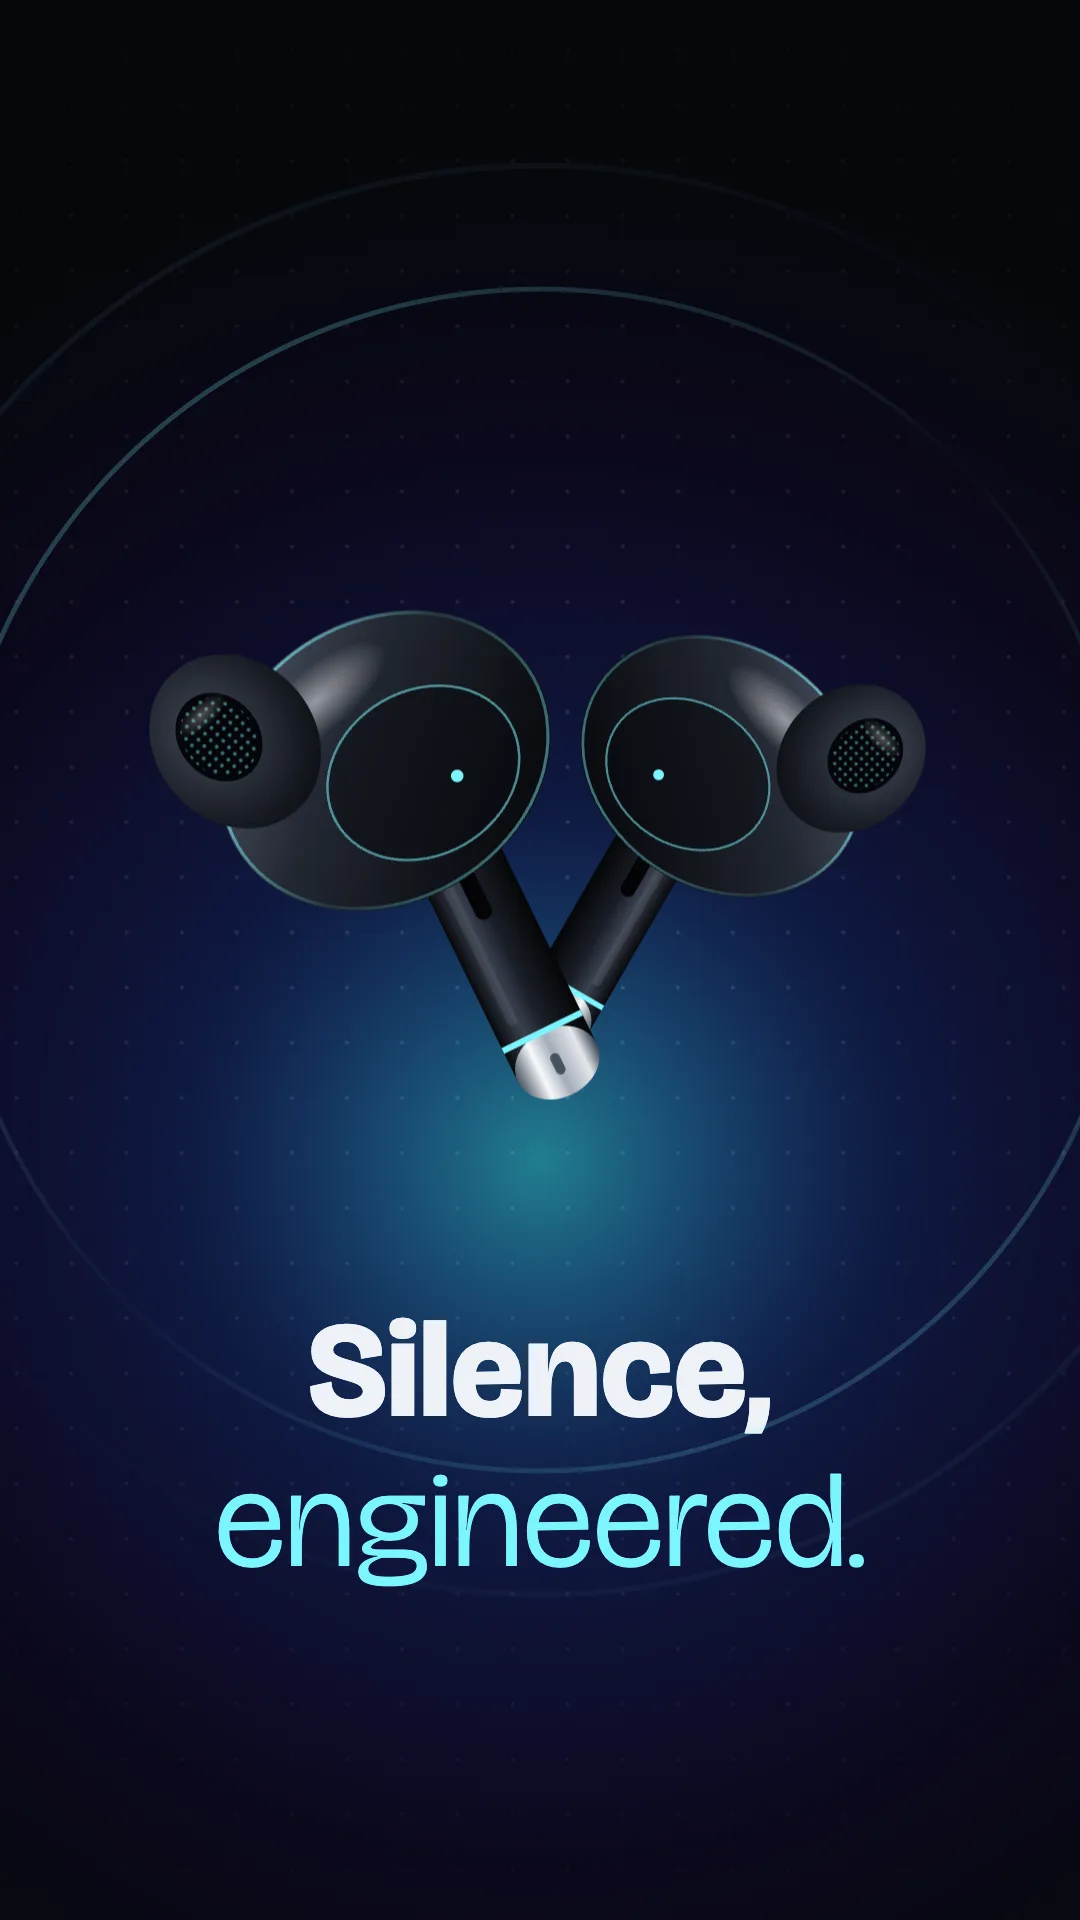
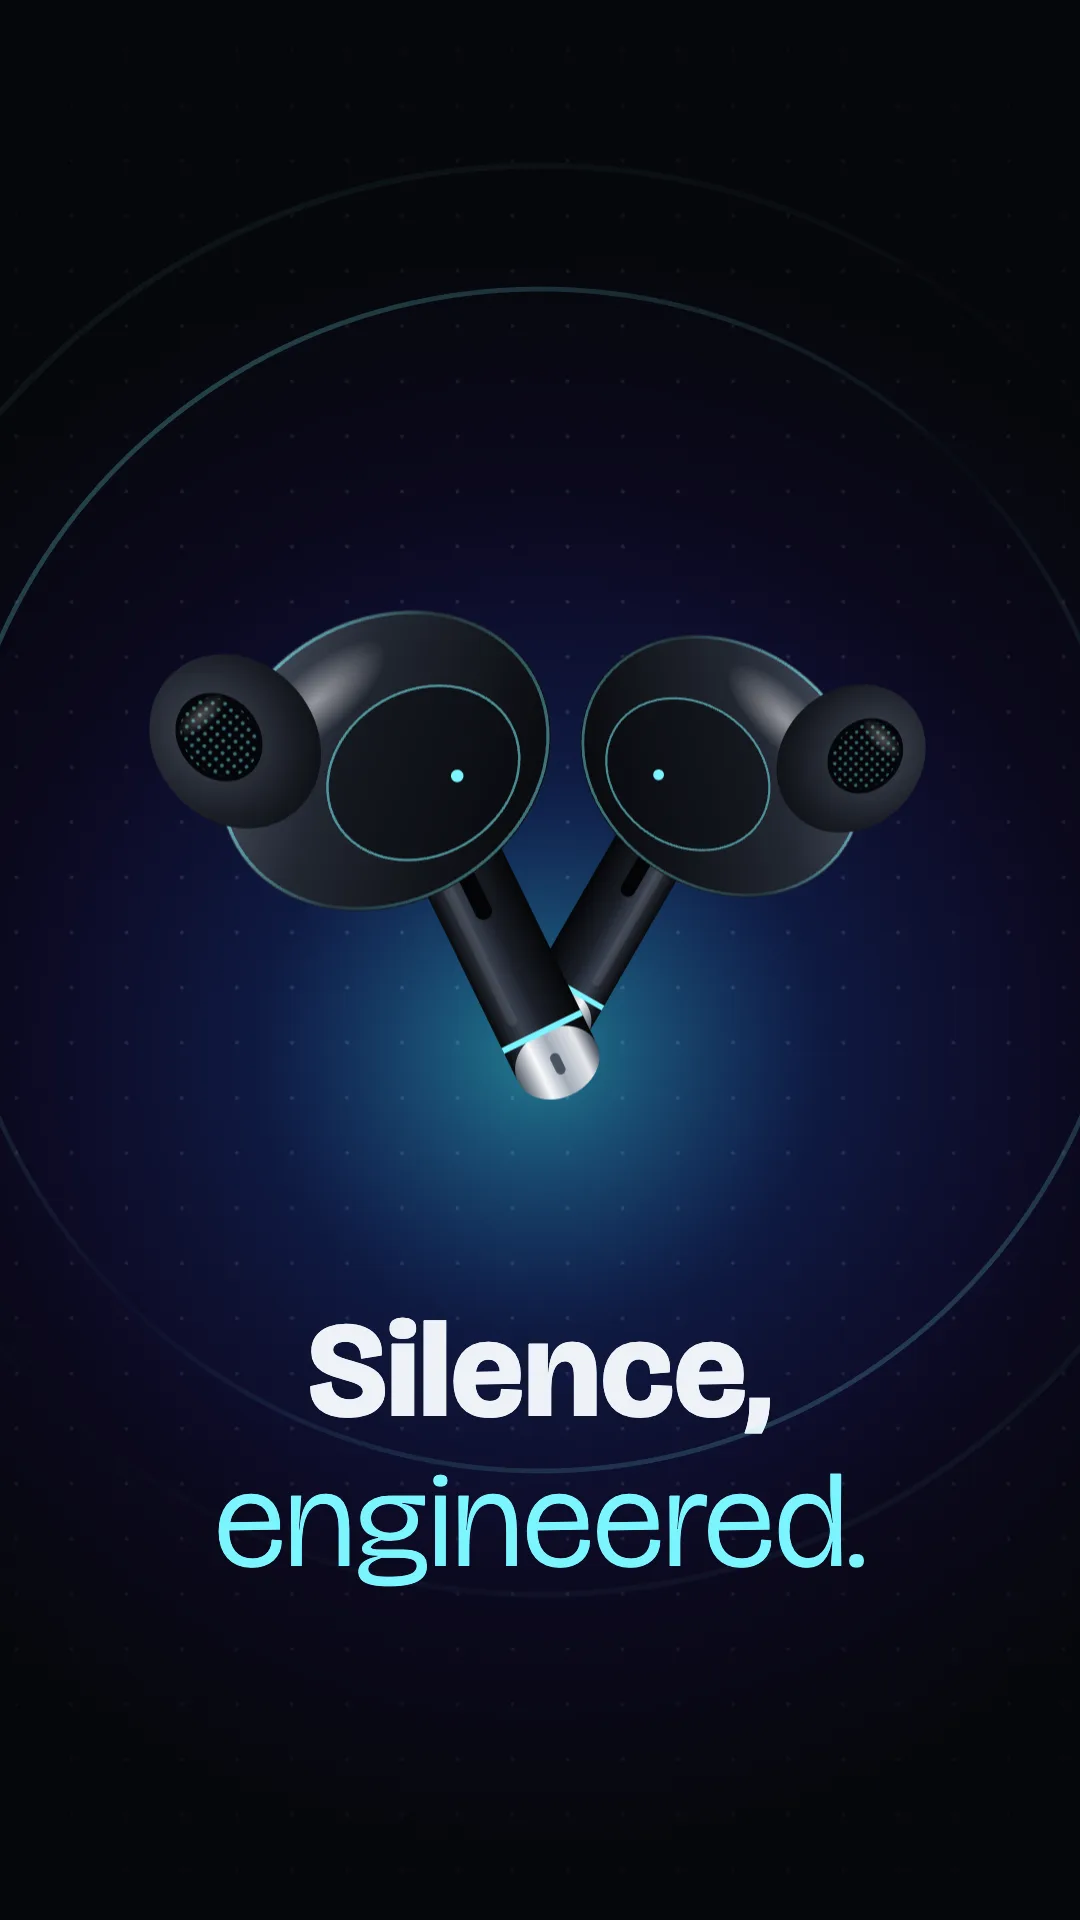
fix(site): the KOVA 9:16 glow stays inside the frame, showcase players replay from the poster and skip the empty opening
Claude-Session: https://claude.ai/code/session_019pFVuDZefGiQPfptrkkr1A

Changed region(s): [[0.2139, 0.5625, 0.7944, 0.875]]

diff --git a/site/src/index.html b/site/src/index.html
@@ -291,37 +291,37 @@
       <p class="showcase__lede muted">The three briefs from the top of the page, and the pieces behind it. Every card plays a real composition.</p>
       <ul class="showcase__grid">
         <li class="card card--tall" data-category="formats">
-          <figure class="comp comp--9x16" data-composition="kova-9x16" data-poster-time="4.4" style="--comp-bg: #06070B">
+          <figure class="comp comp--9x16" data-composition="kova-9x16" data-poster-time="4.4" data-replay="poster" data-loop-from="0.75" style="--comp-bg: #06070B">
             <div class="comp-stage"><img class="poster" src="compositions/kova-9x16/poster.webp" alt="A launch film for the KOVA Air earbuds in a 9:16 Instagram Reel." width="1080" height="1920" loading="lazy"></div>
           </figure>
           <p class="card__label">Instagram Reel · 9:16</p>
         </li>
         <li class="card card--wide" data-category="formats">
-          <figure class="comp comp--16x9" data-composition="tidefall-16x9" data-poster-time="3.8" style="--comp-bg: #2B1CFF">
+          <figure class="comp comp--16x9" data-composition="tidefall-16x9" data-poster-time="3.8" data-replay="poster" data-loop-from="0.75" style="--comp-bg: #2B1CFF">
             <div class="comp-stage"><img class="poster" src="compositions/tidefall-16x9/poster.webp" alt="The TIDEFALL music festival announcement in a 16:9 YouTube video." width="1920" height="1080" loading="lazy"></div>
           </figure>
           <p class="card__label">YouTube · 16:9</p>
         </li>
         <li class="card" data-category="formats">
-          <figure class="comp comp--1x1" data-composition="fernwise-1x1" data-poster-time="8.6" style="--comp-bg: #F3EFE6">
+          <figure class="comp comp--1x1" data-composition="fernwise-1x1" data-poster-time="8.6" data-replay="poster" data-loop-from="0.75" style="--comp-bg: #F3EFE6">
             <div class="comp-stage"><img class="poster" src="compositions/fernwise-1x1/poster.webp" alt="The Fernwise savings app's year in money in a 1:1 Instagram post." width="1080" height="1080" loading="lazy"></div>
           </figure>
           <p class="card__label">Instagram Post · 1:1</p>
         </li>
         <li class="card" data-category="brand">
-          <figure class="comp comp--1x1" data-composition="brand" data-poster-time="5" style="--comp-bg: #0F0F0F">
+          <figure class="comp comp--1x1" data-composition="brand" data-poster-time="5" data-replay="poster" data-loop-from="2.5" style="--comp-bg: #0F0F0F">
             <div class="comp-stage"><img class="poster" src="compositions/brand/poster.webp" alt="Brand swatches and a type specimen from a theme file." width="1080" height="1080" loading="lazy"></div>
           </figure>
           <p class="card__label">Instagram Post · 1:1</p>
         </li>
         <li class="card" data-category="store">
-          <figure class="comp comp--1x1" data-composition="identity" data-poster-time="5" style="--comp-bg: #0F0F0F">
+          <figure class="comp comp--1x1" data-composition="identity" data-poster-time="5" data-replay="poster" data-loop-from="0.5" style="--comp-bg: #0F0F0F">
             <div class="comp-stage"><img class="poster" src="compositions/identity/poster.webp" alt="A logo becoming a favicon, an app icon and store screenshots." width="1080" height="1080" loading="lazy"></div>
           </figure>
           <p class="card__label">Instagram Post · 1:1</p>
         </li>
         <li class="card card--wide" data-category="lang">
-          <figure class="comp comp--16x9" data-composition="languages" data-poster-time="1.4" style="--comp-bg: #0F0F0F">
+          <figure class="comp comp--16x9" data-composition="languages" data-poster-time="1.4" data-replay="poster" data-loop-from="0.75" style="--comp-bg: #0F0F0F">
             <div class="comp-stage"><img class="poster" src="compositions/languages/poster.webp" alt="A headline in four languages inside one box." width="1920" height="1080" loading="lazy"></div>
           </figure>
           <p class="card__label">YouTube · 16:9</p>

diff --git a/site/src/js/player.js b/site/src/js/player.js
@@ -9,7 +9,7 @@ export const READY_TIMEOUT_MS = 20000;
 
 export class CompositionPlayer {
   /**
-   * @param {{ dataset: { composition: string, posterTime?: string }, classList: { add(c: string): void, remove(c: string): void } }} figure
+   * @param {{ dataset: { composition: string, posterTime?: string, replay?: string, loopFrom?: string }, classList: { add(c: string): void, remove(c: string): void } }} figure
    * @param {{ origin: string, mount(src: string, player: CompositionPlayer): { contentWindow: { postMessage(m: unknown, o: string): void }, remove(): void },
    *   setTimeout(fn: () => void, ms: number): unknown, clearTimeout(id: unknown): void, log?: (m: unknown) => void }} deps
    */
@@ -18,6 +18,12 @@ export class CompositionPlayer {
     this.deps = deps;
     this.id = figure.dataset.composition;
     this.posterTime = Number(figure.dataset.posterTime ?? 0) || 0;
+    /** data-replay="poster" (the showcase): each return to the screen plays again from the poster frame, not mid-film. */
+    this.replayFromPoster = figure.dataset.replay === 'poster';
+    /** data-loop-from (seconds): where the loop starts again, past an opening that is still empty (t = 0 always is). */
+    this.loopFrom = Number(figure.dataset.loopFrom ?? 0) || 0;
+    /** The last time the runtime reported while playing: a smaller one means it wrapped to the start. */
+    this.lastTime = 0;
     this.frame = null;
     this.ready = false;
     /** null, or why the poster is shown for good: 'error' (the runtime refused it) or 'timeout' (retried on its return). */
@@ -67,6 +73,7 @@ export class CompositionPlayer {
 
   play() {
     if (this.playing) return;
+    if (this.replayFromPoster && !this.atPoster) this.seek(this.posterTime);
     this.playing = true;
     this.still = false;
     this.atPoster = false;
@@ -138,6 +145,13 @@ export class CompositionPlayer {
     } else if (data.type === 'time' && data.playing === true && this.ready) {
       // The poster goes only once the runtime is really playing frames: never a blank or unpainted frame.
       this.figure.classList.add('is-ready');
+      const wrapped = data.t < this.lastTime && data.t < this.loopFrom;
+      this.lastTime = data.t;
+      if (wrapped && this.playing) {
+        // A seek stops the runtime's playback: play again from there.
+        this.seek(this.loopFrom);
+        this.send({ type: 'play', loop: true });
+      }
     } else if (data.type === 'error' && !this.ready) {
       // Before ready only fatal errors are posted (no data, bad base, a composition that cannot mount).
       this.fail('error');

diff --git a/docs/decisions-log.md b/docs/decisions-log.md
@@ -2193,3 +2193,5 @@ Legenda impatto: 🟢 basso · 🟡 medio · 🔴 alto (sicurezza o prodotto).
 1850. 🟢 **La fascia attorno a una composizione più bassa della cella è lo sfondo della composizione stessa (decisione: orchestratore (2026-10-24), richiesta sito 83).** Dove la cella ha un rapporto diverso (KOVA 9:16 su due righe, l'identità 1:1 accanto al 16:9 delle lingue) il palco è centrato su `--comp-bg`, messo sulla figura con lo `background` del `composition.json` (una prova di `page.test.mjs` li tiene uguali): la fascia si legge come parte del quadro, non come un vuoto della scheda. Un filo interno (10% del testo, sopra il palco) tiene visibile il bordo delle composizioni scure sulla scheda scura. Limite noto: in KOVA il fondo dell'immagine dopo 4 s è un blu notte (#0B081B) poco più chiaro dello sfondo (#06070B), quindi sotto si vede uno stacco lieve. *Costo cambio:* basso.
 1851. 🟢 **`check.mjs` fallisce una scheda storta e un poster vuoto (decisione: orchestratore (2026-10-24), richiesta sito 83).** Anche a 2000 px, con e senza movimento ridotto: ogni scheda portata in alto, al centro e in basso dello schermo (così un parallasse si vede) deve avere la figura sull'area utile entro 1 px, il palco dentro, centrato, nel suo rapporto e a contatto con due lati opposti. I poster della pagina, disegnati 96×96 su un canvas, devono avere una deviazione della luminanza di almeno 12 (oggi il minimo è 21, `git`; un fotogramma vuoto sta sotto 2). Provato reintroducendo il parallasse: 11-12 problemi per larghezza. *Costo cambio:* nullo.
 1852. 🟡 **Tempi dei poster invariati; i momenti vuoti nel giro dal vivo restano (decisione: orchestratore (2026-10-24), richiesta sito 83).** I sei poster della vetrina mostrano già il momento pieno (deviazione 30-75) e il player parte dal `posterTime`. La scheda «lingue» quasi vuota della segnalazione è il passaggio del giro della composizione (a 7,9 s tutto sfuma, a 0,4 s c'è solo il titolo): lo stesso vale per Fernwise (crema vuota a 0 s) e per brand/identità mentre entrano. Accorciare quei passaggi vuol dire cambiare le composizioni: non fatto qui, da decidere dall'utente.
+1853. 🟢 **Nel KOVA 9:16 il bagliore si spegne prima dei bordi, così sopra e sotto la composizione è il suo sfondo (decisione: orchestratore (2026-10-24), richiesta sito 83, giro 1; supera il limite noto della 1850).** In `site/scripts/hero-gen/kova.mjs` il bagliore del 9:16 passa da 2000 px centrati a y 1160 (arrivava oltre il bordo basso: blu notte #0B081B sul fondo) a 1600 px centrati a y 1050: anche al respiro più ampio (×1,08) resta dentro i bordi, quindi la fascia della scheda continua il quadro senza stacco. Rigenerati JSON e poster; una prova di `hero-gen.test.mjs` lo controlla sul JSON. Cambia un poco anche il 9:16 dell'hero (stessa composizione): la luce sale di 110 px, sotto gli auricolari. *Costo cambio:* basso.
+1854. 🟢 **Le schede della vetrina ripartono dal poster e saltano l'apertura vuota (decisione: orchestratore (2026-10-24), richiesta sito 83, giro 1; precisa la 1852).** Due attributi letti dal player del sito, solo sulle figure della vetrina: `data-replay="poster"` (ogni volta che la scheda torna sullo schermo il film riparte dal `posterTime`, non da dove si era fermato) e `data-loop-from` (quando il film ricomincia, il player salta a quel tempo invece di mostrare l'apertura vuota: KOVA, TIDEFALL, Fernwise e lingue 0,75 s, identità 0,5 s, brand 2,5 s, dopo che il codice è stato scritto). Il runtime non ha un punto di ripartenza: il player vede il tempo tornare indietro nei messaggi `time` e manda `seek` + `play` (al massimo un paio di fotogrammi dell'inizio). Campionato dal vivo a 1440 px per 15 s: restano solo i passaggi brevi dentro i film (tagli di scena, la dissolvenza finale di brand, identità e lingue, sotto 0,5 s). L'hero non cambia (riparte da 0 col suo ciclo). *Costo cambio:* basso.
